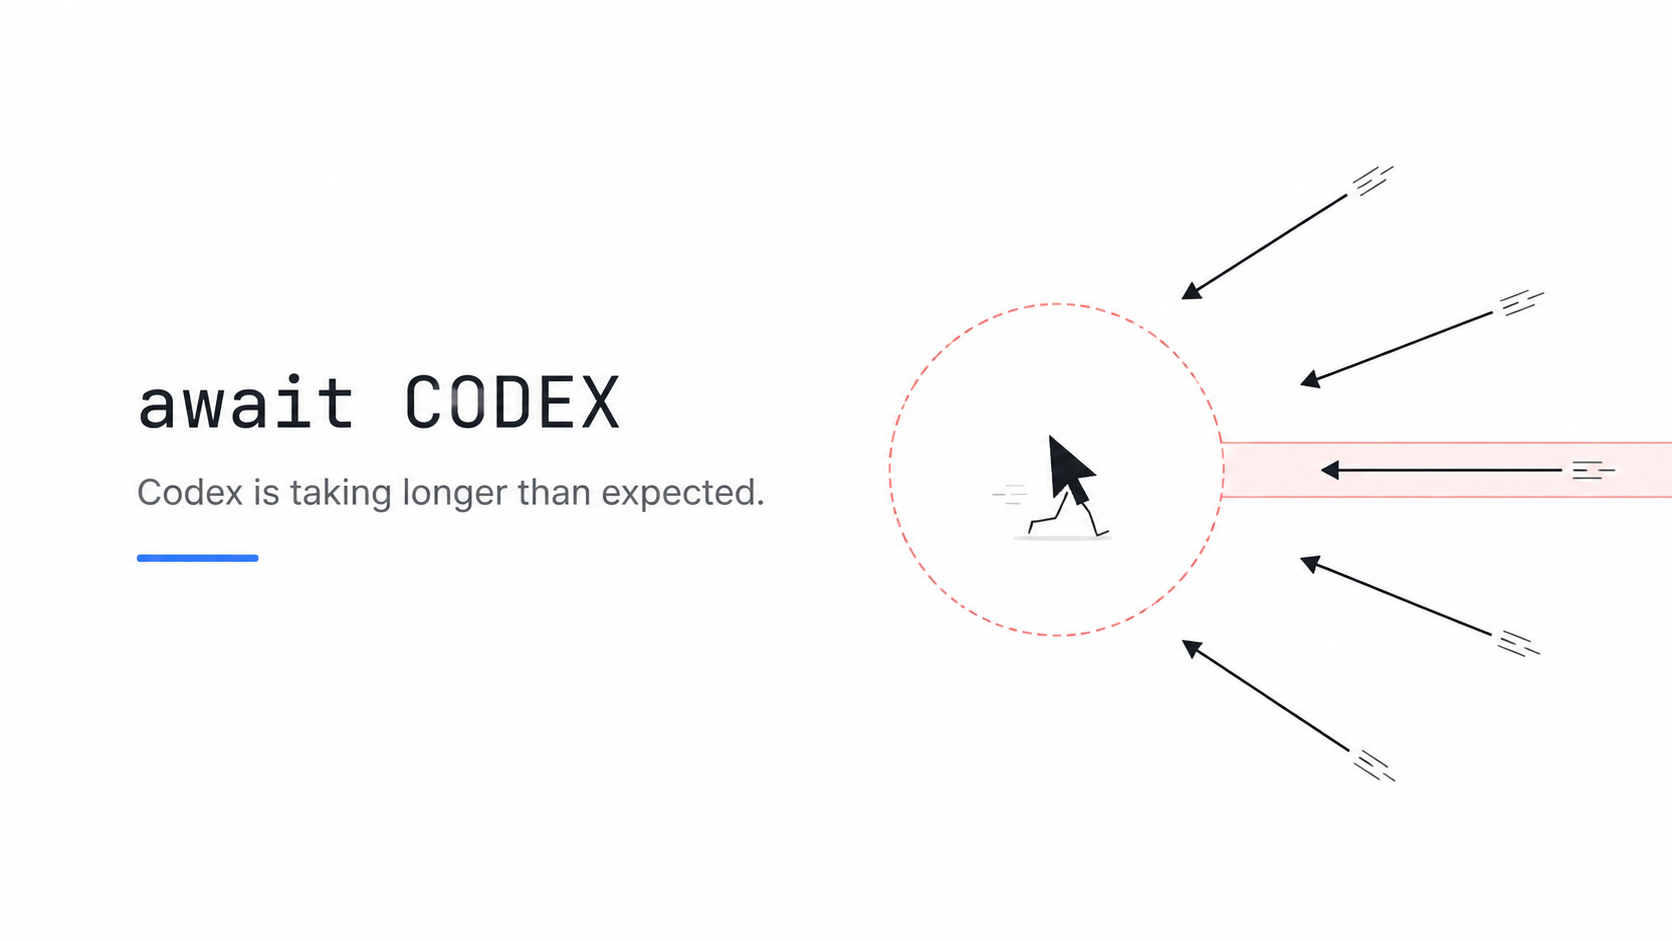
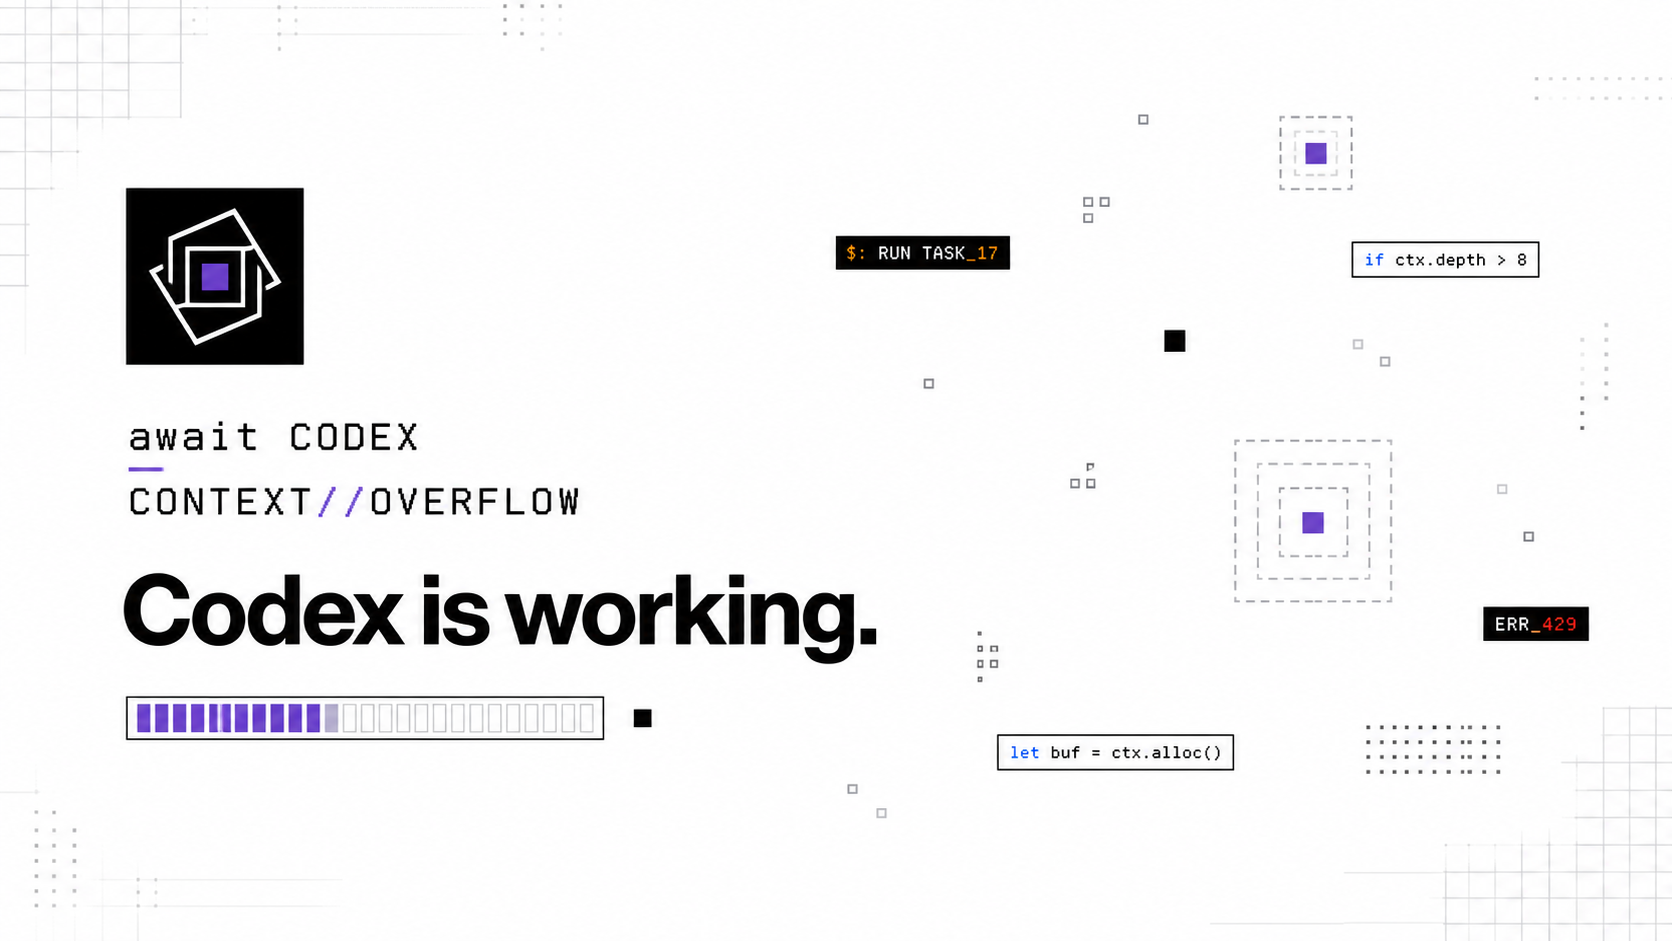
Stage 10 검증과 제출 자산 보강

diff --git a/src/game/core/simulation.test.ts b/src/game/core/simulation.test.ts
@@ -402,7 +402,7 @@ describe("survival simulation", () => {
     expect(state.lastHitSource).toBe("approval");
   });
 
-  it("makes context max lethal only after its warning expires", () => {
+  it("makes context compaction lethal only after its warning expires", () => {
     const state = playingState();
     state.hazards = [hazard(state)];
 
@@ -584,6 +584,47 @@ describe("survival simulation", () => {
     },
   );
 
+  it.each([
+    ["review-loop", "finding", "ONE MORE ISSUE"],
+    ["usage-limit", "limit", "LIMIT REACHED"],
+  ] as const)(
+    "keeps the %s radial burst outside its snapshotted center",
+    (sequenceKind, projectileKind, label) => {
+      const state = playingState(31, 800, 600);
+      state.player.position = { x: 240, y: 180 };
+      state.sequences = [
+        sequence({
+          kind: sequenceKind,
+          label,
+          position: { ...state.player.position },
+          projectileCount: 12,
+        }),
+      ];
+
+      const events = stepGame(state, EMPTY_INPUT, FIXED_STEP_MS);
+
+      expect(state.phase).toBe("playing");
+      expect(events).not.toContainEqual({
+        type: "player-hit",
+        source: projectileKind,
+      });
+      const burst = state.projectiles.filter(
+        (candidate) => candidate.kind === projectileKind,
+      );
+      expect(burst).toHaveLength(12);
+      expect(
+        Math.min(
+          ...burst.map((candidate) =>
+            Math.hypot(
+              candidate.position.x - state.player.position.x,
+              candidate.position.y - state.player.position.y,
+            ),
+          ),
+        ),
+      ).toBeGreaterThan(GAMEPLAY.playerRadius);
+    },
+  );
+
   it("freezes the simulation after results and restarts cleanly", () => {
     const state = playingState(1, 800, 500);
     state.projectiles = [projectile(state)];
@@ -635,6 +676,58 @@ describe("survival simulation", () => {
           GAMEPLAY.maxSequences,
         );
       }
+    }
+  });
+
+  it("sustains one minute of stage-ten maximum spawn pressure within every cap", () => {
+    for (let seed = 1; seed <= 8; seed += 1) {
+      const state = playingState(
+        seed,
+        seed % 2 === 0 ? 375 : 1_280,
+        seed % 2 === 0 ? 640 : 720,
+      );
+      state.elapsedMs = GAMEPLAY.difficultyRampMs;
+      state.spawn = {
+        toolCallMs: 0,
+        approvalMs: 0,
+        compactionMs: 0,
+        retryLoopMs: 0,
+        reasoningMs: 0,
+        parallelAgentsMs: 0,
+        reviewLoopMs: 0,
+        usageLimitMs: 0,
+      };
+
+      for (let tick = 0; tick < 3_600; tick += 1) {
+        for (const projectile of state.projectiles) {
+          projectile.telegraphRemainingMs = 1_000_000;
+        }
+        for (const hazardState of state.hazards) {
+          hazardState.phase = "telegraph";
+          hazardState.remainingMs = 1_000_000;
+        }
+        for (const sequenceState of state.sequences) {
+          sequenceState.remainingMs = 1_000_000;
+        }
+
+        stepGame(state, EMPTY_INPUT, FIXED_STEP_MS);
+
+        expect(state.phase).toBe("playing");
+        expect(state.projectiles.length).toBeLessThanOrEqual(
+          GAMEPLAY.maxProjectiles,
+        );
+        expect(state.hazards.length).toBeLessThanOrEqual(GAMEPLAY.maxHazards);
+        expect(state.sequences.length).toBeLessThanOrEqual(
+          GAMEPLAY.maxSequences,
+        );
+      }
+
+      expect(state.elapsedMs).toBeGreaterThan(
+        GAMEPLAY.difficultyRampMs + 59_000,
+      );
+      expect(Number.isFinite(state.rngState)).toBe(true);
+      expect(Number.isFinite(state.nextEntityId)).toBe(true);
+      expect(Object.values(state.spawn).every(Number.isFinite)).toBe(true);
     }
   });
 });

diff --git a/docs/DECISIONS.md b/docs/DECISIONS.md
@@ -225,3 +225,13 @@
 - 배경: git branch·merge·race condition은 개발자에게 익숙하지만 Codex를 기다리는 게임의 고유한 경험은 아니었다. OpenAI 공식 문서와 community issue·discussion에서 context compaction 뒤 작업 상태 손실과 재탐색, 반복 approval, xhigh의 긴 대기와 높은 사용량, 반복 review마다 새 finding 발견, usage limit 급감·표시 불일치, parallel agent 대기가 반복 주제로 확인됐다.
 - 결정: 메인 패턴을 `TOOL CALL STREAM`, `APPROVAL REQUIRED`, `CONTEXT COMPACTION`, `RETRY LOOP`, `REASONING: XHIGH`, `PARALLEL AGENTS`, `REVIEW / FIX LOOP`, `USAGE LIMIT`의 여덟 개로 교체한다. Stage 1–8에서 하나씩 해금하고 Stage 9–10은 동시 수·속도·빈도·radial 탄 수를 높인다. git·npm·browser error는 Stage 1 tool-call phrase bank의 실제 작업 소재로 유지하되 독립 메인 패턴으로 승격하지 않는다.
 - 결과: core는 `tool-call`, `approval`, `retry`, `reasoning`, `agent`, `finding`, `limit` projectile, `compaction` hazard, `review-loop`·`usage-limit` sequence를 사용한다. approval과 reasoning은 생성 순간 snapshot 후 재조준하지 않고, compaction은 inward frame 뒤 `SUMMARY LOST` 영역이 되며, review와 usage는 각각 `ONE MORE ISSUE`와 `LIMIT REACHED` radial projectile을 만든다. 이 표현은 실제 사용자 session을 읽지 않는 fictional parody다.
+
+### D-028 조사 근거
+
+- [Compaction 이후 state 손실과 같은 파일 재탐색](https://github.com/openai/codex/issues/36712), [compaction 뒤 파일 재독해](https://github.com/openai/codex/issues/33498) → `CONTEXT COMPACTION`, `TOOL CALL STREAM`
+- [같은 command에서 반복되는 approval 요청](https://github.com/openai/codex/issues/5038) → `APPROVAL REQUIRED`
+- [xhigh의 긴 reasoning 시간과 usage 부담](https://github.com/openai/codex/discussions/9588) → `REASONING: XHIGH`
+- [review를 반복할 때마다 새 issue가 발견되는 경험](https://www.reddit.com/r/codex/comments/1vpp316/why_does_codex_keep_finding_new_issues_every_time/) → `REVIEW / FIX LOOP`
+- [usage가 빠르게 소진된다는 사용자 경험](https://www.reddit.com/r/codex/comments/1u7qdz8/codex_usage_limits_feel_way_too_aggressive_lately/) → `USAGE LIMIT`
+
+community 게시물의 표현을 그대로 복사하지 않고 반복되는 경험만 추출해 고정 문구와 추상 도형으로 재구성한다.

diff --git a/docs/LICENSES.md b/docs/LICENSES.md
@@ -1,0 +1,36 @@
+# 에셋과 의존성 출처
+
+제출 빌드에 포함되거나 제작 과정에 사용한 폰트, 코드, 이미지, 음원의 출처를 기록한다.
+
+## production 코드와 폰트
+
+| 항목 | 버전 | 용도 | 라이선스·출처 |
+| --- | --- | --- | --- |
+| Phaser | 3.90.0 | Canvas 게임 runtime | MIT, Copyright 2024 Richard Davey, Phaser Studio Inc., `node_modules/phaser/LICENSE.md` |
+| Pretendard | 1.3.9 | HUD와 Codex surface 서체 | SIL Open Font License 1.1, Kil Hyung-jin, [orioncactus/pretendard](https://github.com/orioncactus/pretendard) |
+
+## development 도구
+
+| 항목 | 버전 | 라이선스 |
+| --- | --- | --- |
+| Vite | 8.2.2 | MIT |
+| TypeScript | 5.9.3 | Apache-2.0 |
+| Vitest | 4.1.11 | MIT |
+| Wrangler | 4.92.0 | MIT OR Apache-2.0 |
+| Cloudflare Vite plugin | 1.37.1 | MIT |
+
+## 이미지와 아이콘
+
+- `public/og.png`: 2026-08-23에 OpenAI built-in image generation으로 제작한 제출용 16:9 preview다. 프로젝트의 original context-loop mark와 게임 안의 tool·context·usage 시각 문법만 사용하며 OpenAI knot, Codex 제품 logo, ChatGPT logo와 제3자 앱 logo를 포함하지 않는다.
+- Start mark, favicon, player, projectile, hazard와 HUD는 repository의 HTML·CSS·Phaser Graphics 코드로 직접 그린 original 도형이다.
+- 실제 앱 icon, stock image, 외부 sprite sheet와 texture asset은 사용하지 않는다.
+
+## 오디오
+
+- 외부 음원 파일은 없다. `src/game/services/SoundService.ts`가 Web Audio oscillator로 warning, burst, hit tone을 runtime에 합성한다.
+
+## 공개 정보 점검
+
+- 실제 사용자 파일, 앱 목록, Codex session과 repository 내용을 읽지 않는다.
+- 공격 문구와 상태 표시는 고정 phrase bank에서 생성하는 fictional parody다.
+- 2026-08-23 source와 production bundle에서 API key, bearer token, password와 개인 식별 정보를 검색했으며 비밀값을 발견하지 않았다.

diff --git a/docs/WORKLOG.md b/docs/WORKLOG.md
@@ -2,6 +2,22 @@
 
 가장 최근 항목이 위로 오도록 기록한다. 각 항목은 사실로 확인한 내용만 포함한다.
 
+## 2026-08-23 — Stage 10 안정성·공정성 및 제출 자산 점검
+
+### 검증 보강
+
+- `REVIEW / FIX LOOP`와 `USAGE LIMIT`의 radial burst가 player snapshot 중심에서 생성되더라도 즉시 피격되지 않고 바깥쪽에서 시작하는 회귀 테스트 추가
+- 8개 seed와 375×640·1280×720 viewport에서 Stage 10의 모든 spawn timer를 동시에 활성화하고 1분간 최대 압력을 유지하는 soak test 추가
+- soak 동안 projectile, hazard, sequence 상한과 elapsed time, RNG, entity id, spawn timer의 finite 값을 검증
+- `pnpm check`에서 TypeScript typecheck, Vitest 9 files의 55 tests, Worker/client production build 통과
+
+### 제출 자산과 공개 정보
+
+- 마우스 cursor, 방향 화살표와 과거 공격을 보여주던 낡은 `public/og.png`를 현재 original mark, 12×12 black square, tool·context·usage 문법의 1672×941 preview로 교체
+- Phaser, Pretendard, development tool, generated image와 runtime 합성 음원의 출처를 `docs/LICENSES.md`에 기록
+- source와 production dependency 범위에서 제3자 app logo·외부 음원·stock image 사용 여부와 비밀값을 점검하고 발견되지 않은 항목을 제출 checklist에 반영
+- community 사례와 여덟 공격 패턴의 대응 근거를 D-028에 URL과 함께 기록
+
 ## 2026-08-23 — Codex community 경험 기반 메인 공격 재편
 
 ### 조사와 제품 결정

diff --git a/docs/DELIVERY.md b/docs/DELIVERY.md
@@ -131,9 +131,9 @@
 
 ### 권리와 공개 정보
 
-- [ ] 사용한 폰트, 음원, 이미지, 코드의 라이선스 기록
-- [ ] 제3자 앱 로고 없음
-- [ ] 비밀키와 개인정보가 bundle 또는 저장소에 없음
+- [x] 사용한 폰트, 음원, 이미지, 코드의 라이선스 기록 — `docs/LICENSES.md`
+- [x] 제3자 앱 로고 없음
+- [x] 비밀키와 개인정보가 bundle 또는 저장소에 없음
 - [ ] 제출 자료에 비공개 정보 없음
 
 ### 제출 자료
@@ -141,6 +141,6 @@
 - [ ] 게임 제목
 - [ ] 200자 이내 소개
 - [ ] 플레이 URL
-- [ ] 16:9 PNG/JPG 썸네일
+- [x] 16:9 PNG/JPG 썸네일 — `public/og.png` 1672×941
 - [ ] 3분 이하 플레이 영상
 - [ ] Codex 활용 과정
